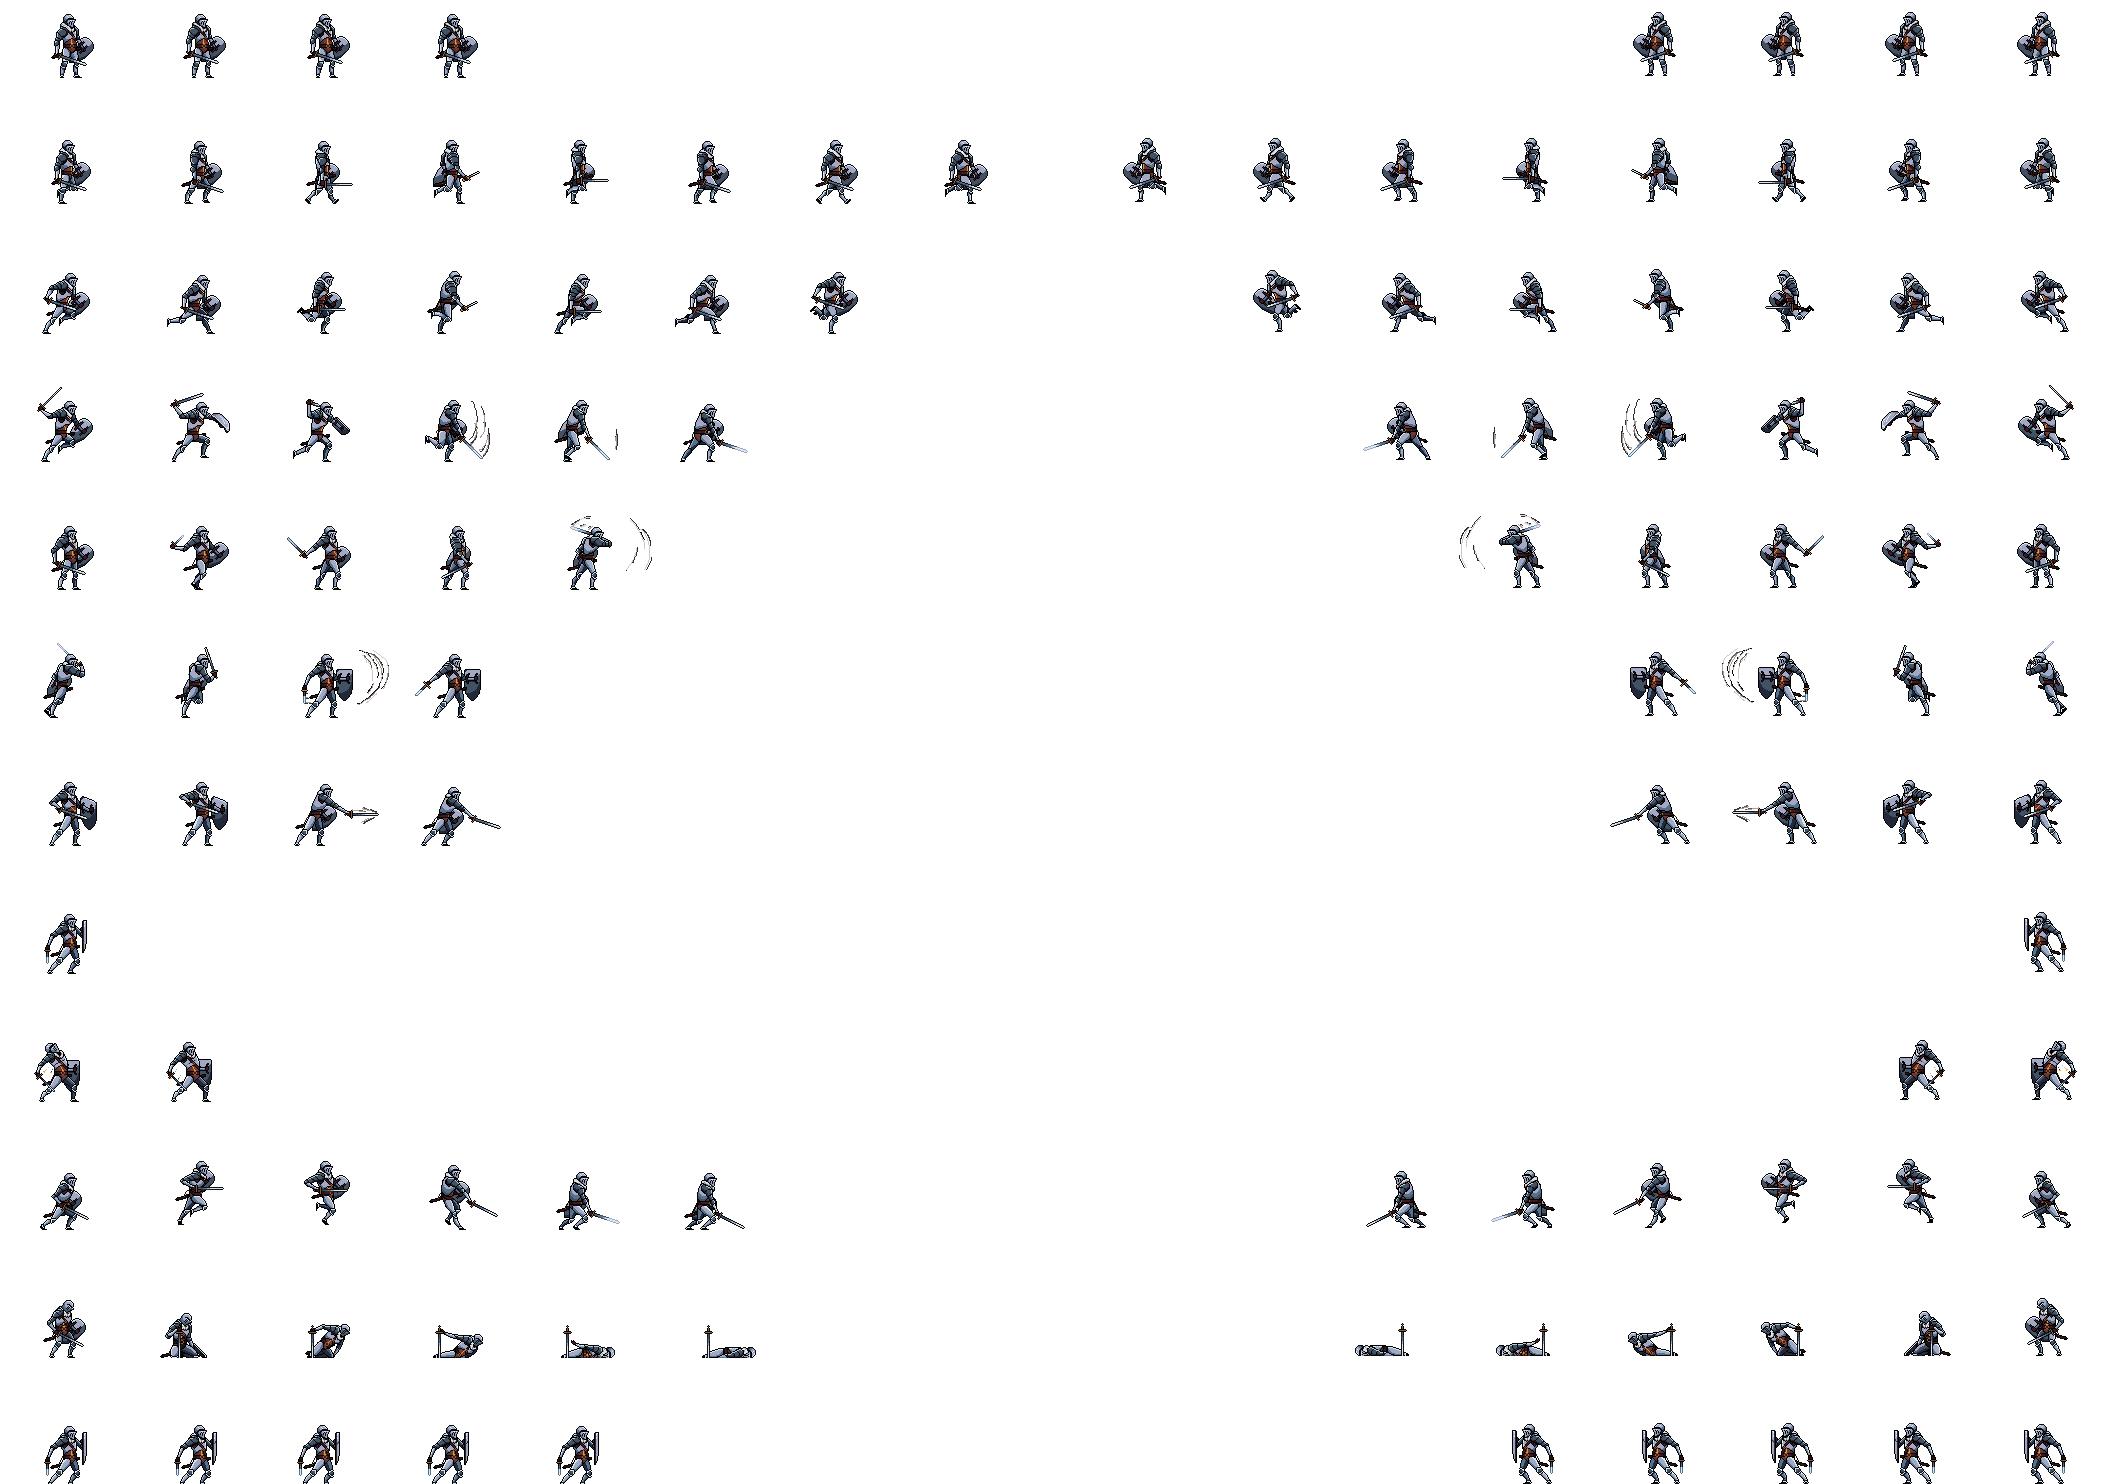
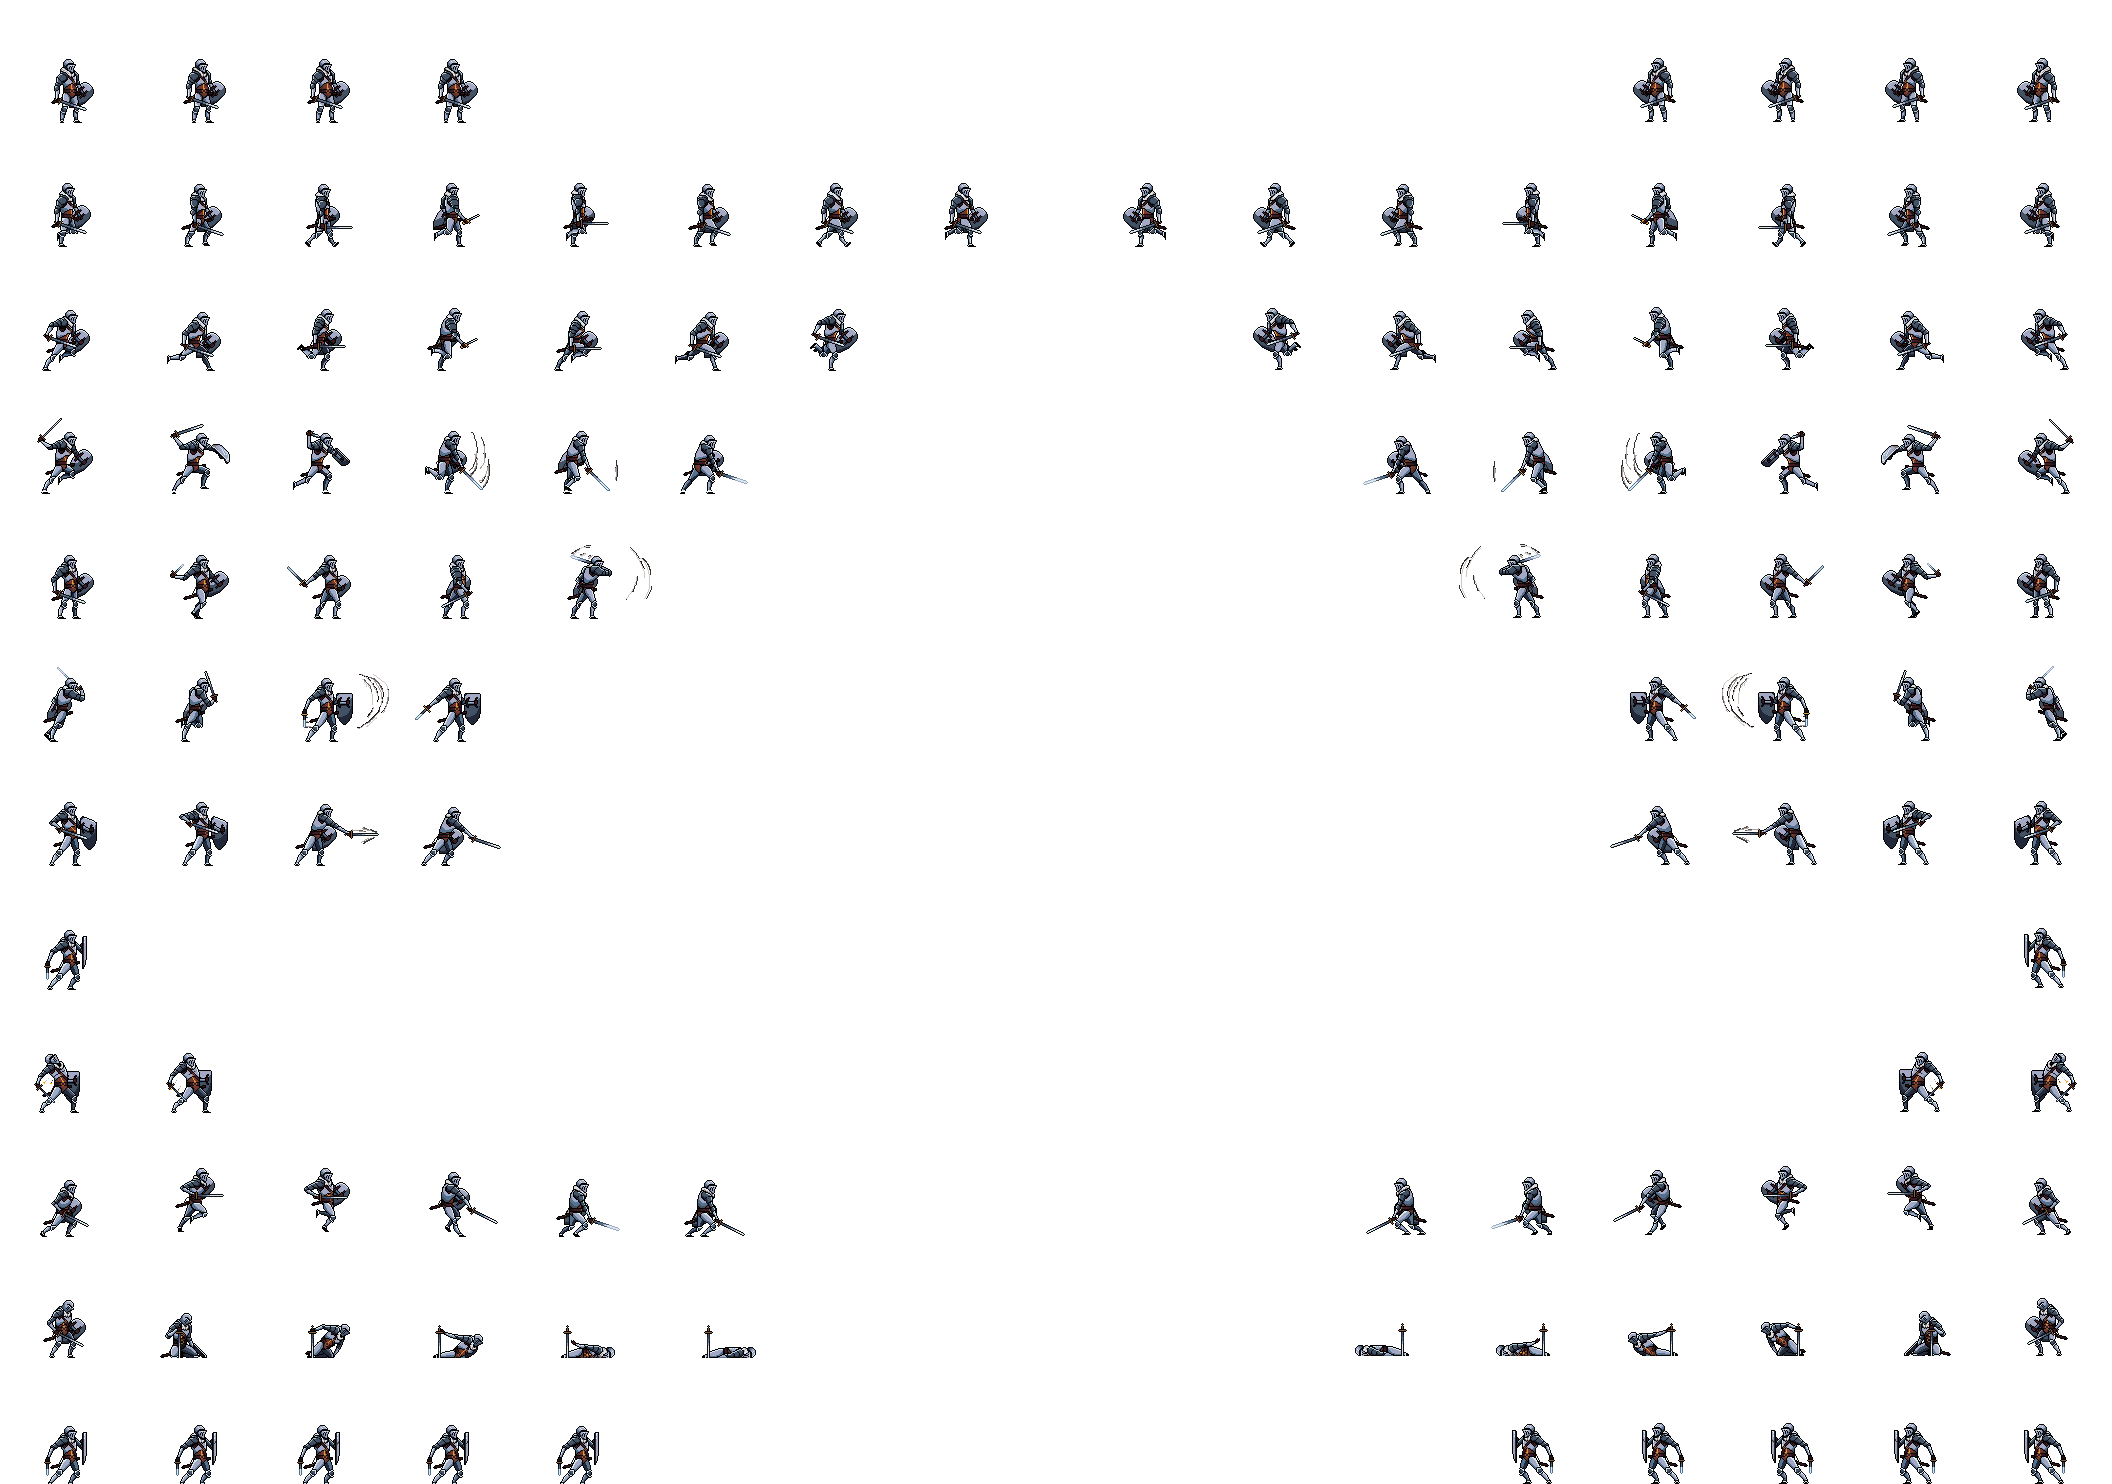
fixed some spritesheets and implemented ability to specify sprite frame drawing bounds

diff --git a/Game/entity/characterData.js b/Game/entity/characterData.js
@@ -55,7 +55,8 @@ export const ANIMATOR_CONSTANTS = Object.freeze({
  * @property {string} img the spritesheet image path
  * @property {number} numRow the number of rows in the spritesheet
  * @property {number} numCol the number of columns in the spritesheet
- * @property {Object<x: nubmer, y: number>} [start] the start point for the sprite bounds
+ * @property {Object<x: nubmer, y: number>} [start] the start point for the sprite bounds;
+ * if this property is defined, then so must be the dim property
  * @property {Object<x: nubmer, y: number>} [dim] the end point for the sprite bounds
  */
 
@@ -195,29 +196,25 @@ const CHARACTER_DATA = {
         spritesheet: {
             img: "character/warriorWoman/warriorWoman.png",
             numRow: 5,
-            numCol: 24,
+            numCol: 12,
+            start: { x: -0.5, y: 1 },
+            dim: { x: 2, y: 2 }
         },
         swordSound: "heavySwordSwoosh1",
         gender: "female",
         animation: {
             [Player.states.MOVE]: {
                 [DIRECTIONS.RIGHT]: [[1, 0], [1, 1], [1, 2], [1, 3], [1, 4], [1, 5], [1, 6], [1, 7]],
-                [DIRECTIONS.LEFT]: [[1, 23], [1, 22], [1, 21], [1, 20], [1, 19], [1, 18], [1, 17], [1, 16]],
                 duration: 1,
             },
             [Player.states.IDLE]: {
                 [DIRECTIONS.RIGHT]: [[0, 0], [0, 1], [0, 2], [0, 3], [0, 4], [0, 5], [0, 6], [0, 7]],
-                [DIRECTIONS.LEFT]: [[0, 23], [0, 22], [0, 21], [0, 20], [0, 19], [0, 18], [0, 17], [0, 16]],
                 duration: 10,
             },
             [Player.states.ATTACK]: {
                 [DIRECTIONS.RIGHT]: [
                     [2, 0], [2, 1], [2, 2], [2, 3], [2, 4], [2, 5], [2, 6], [2, 7], [2, 8], [2, 9], 
                     [2, 10], [2, 11]
-                ],
-                [DIRECTIONS.LEFT]: [
-                    [2, 23], [2, 22], [2, 21], [2, 20], [2, 19], [2, 18], [2, 17], [2, 16], [2, 15], 
-                    [2, 14], [2, 13], [2, 12]
                 ],
                 duration: ANIMATOR_CONSTANTS.ATTACK_DURATION
             },
@@ -252,6 +249,8 @@ const CHARACTER_DATA = {
             img: "character/knight/knight.png",
             numRow: 12,
             numCol: 16,
+            start: {x: -0.5, y: 0.75},
+            dim: {x: 2, y: 1.75}
         },
         swordSound: "heavySwordSwoosh3",
         gender: "male",
@@ -302,6 +301,8 @@ const CHARACTER_DATA = {
             img: "character/samurai/samurai1.png",
             numRow: 10,
             numCol: 18,
+            start: { x: -0.4, y: 0.9 },
+            dim: { x: 1.9, y: 1.9 }
         },
         swordSound: "heavySwordSwoosh1",
         gender: "male",
@@ -353,6 +354,8 @@ const CHARACTER_DATA = {
             img: "character/samurai/samurai2.png",
             numRow: 10,
             numCol: 12,
+            start: { x: -0.35, y: 0.6 },
+            dim: { x: 1.6, y: 1.6 }
         },
         swordSound: "heavySwordSwoosh1",
         gender: "male",
@@ -398,6 +401,8 @@ const CHARACTER_DATA = {
             img: "character/skeleton/skeleton.png",
             numRow: 10,
             numCol: 10,
+            start: { x: -0.5, y: 1 },
+            dim: { x: 2, y: 2 }
         },
         swordSound: "heavySwordSwoosh1",
         gender: "male",
@@ -442,6 +447,8 @@ const CHARACTER_DATA = {
             img: "character/monk/monk.png",
             numRow: 10,
             numCol: 9,
+            start: { x: -0.25, y: 0.5 },
+            dim: { x: 1.5, y: 1.5 }
         },
         swordSound: "heavySwordSwoosh1",
         gender: "male",
@@ -486,6 +493,8 @@ const CHARACTER_DATA = {
             img: "character/minotaur/minotaur.png",
             numRow: 6,
             numCol: 12,
+            start: { x: -0.35, y: 0.75 },
+            dim: { x: 1.75, y: 1.75 }
         },
         swordSound: "heavySwordSwoosh1",
         gender: "male",
@@ -530,6 +539,8 @@ const CHARACTER_DATA = {
             img: "character/gangsters/Gangsters.png",
             numRow: 10,
             numCol: 13,
+            start: { x: -0.5, y: 1 },
+            dim: { x: 2, y: 2 }
         },
         swordSound: "heavySwordSwoosh1",
         gender: "male",
@@ -574,6 +585,8 @@ const CHARACTER_DATA = {
             img: "character/mage/mage.png",
             numRow: 10,
             numCol: 15,
+            start: { x: -0.5, y: 1 },
+            dim: { x: 2, y: 2 }
         },
         swordSound: "heavySwordSwoosh1",
         gender: "female",
@@ -618,6 +631,8 @@ const CHARACTER_DATA = {
             img: "character/ninja/monk.png",
             numRow: 10,
             numCol: 9,
+            start: { x: -0.5, y: 1 },
+            dim: { x: 2, y: 2 }
         },
         swordSound: "heavySwordSwoosh1",
         gender: "male",
